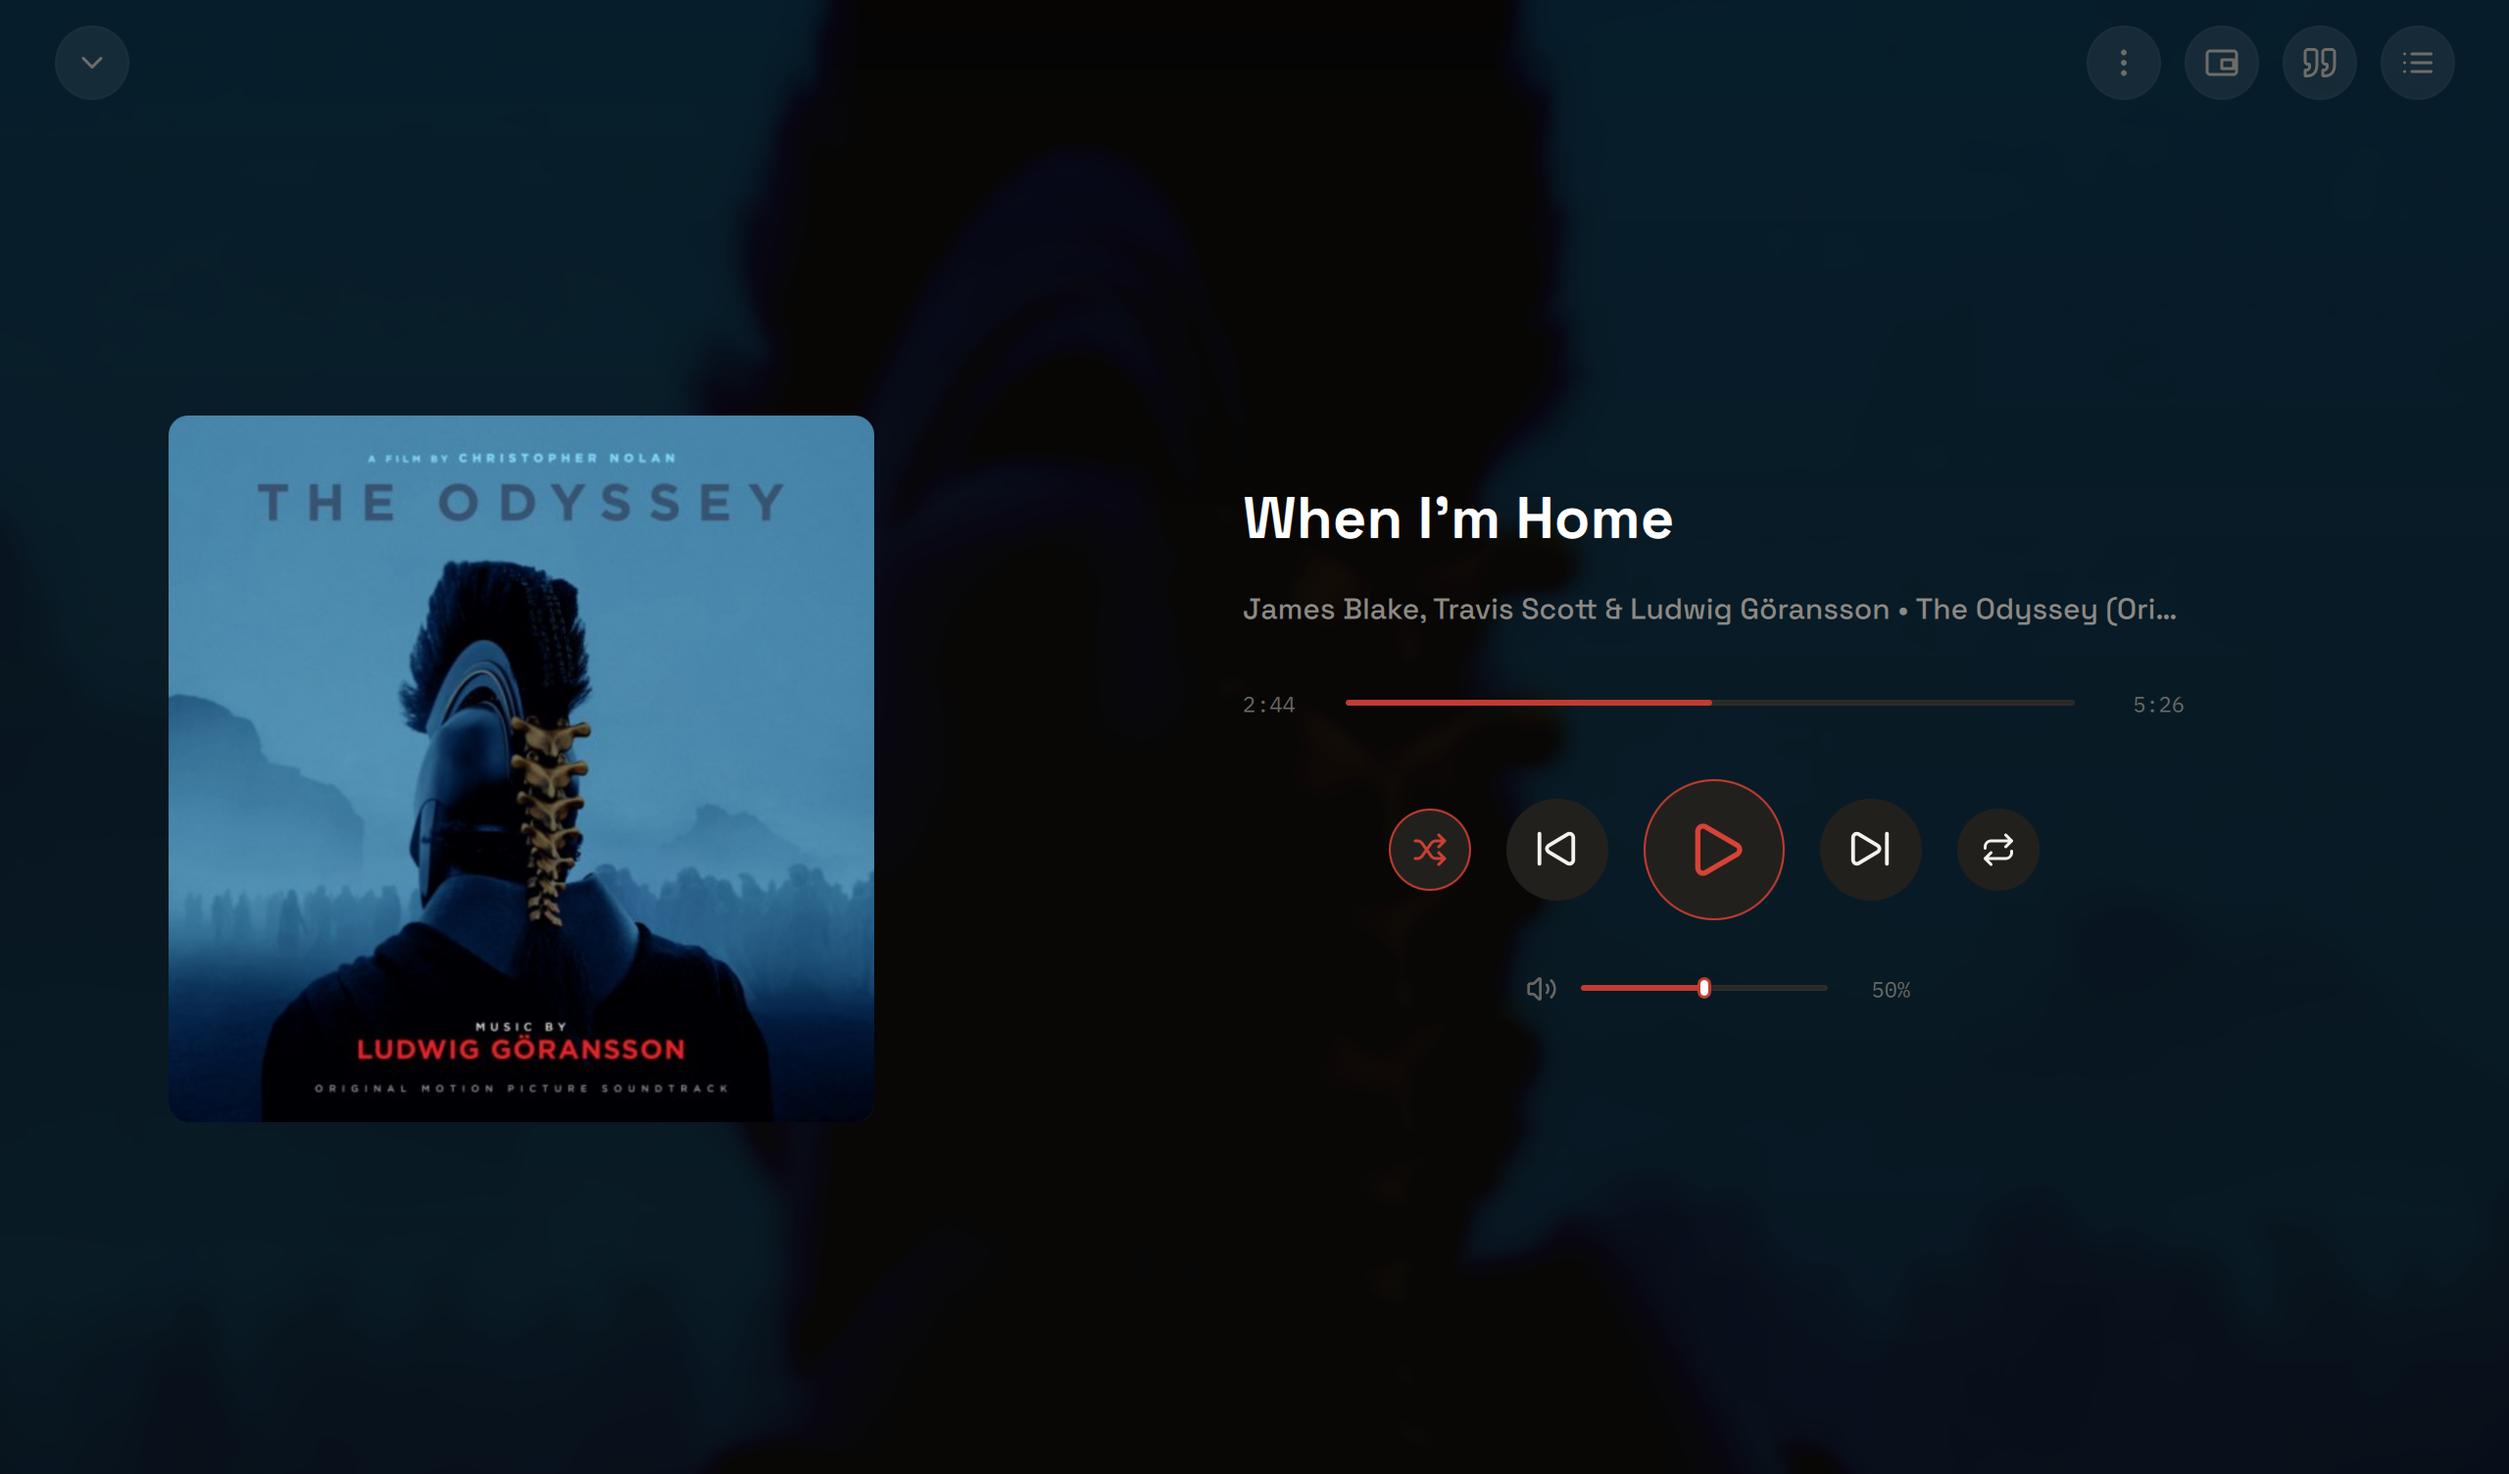
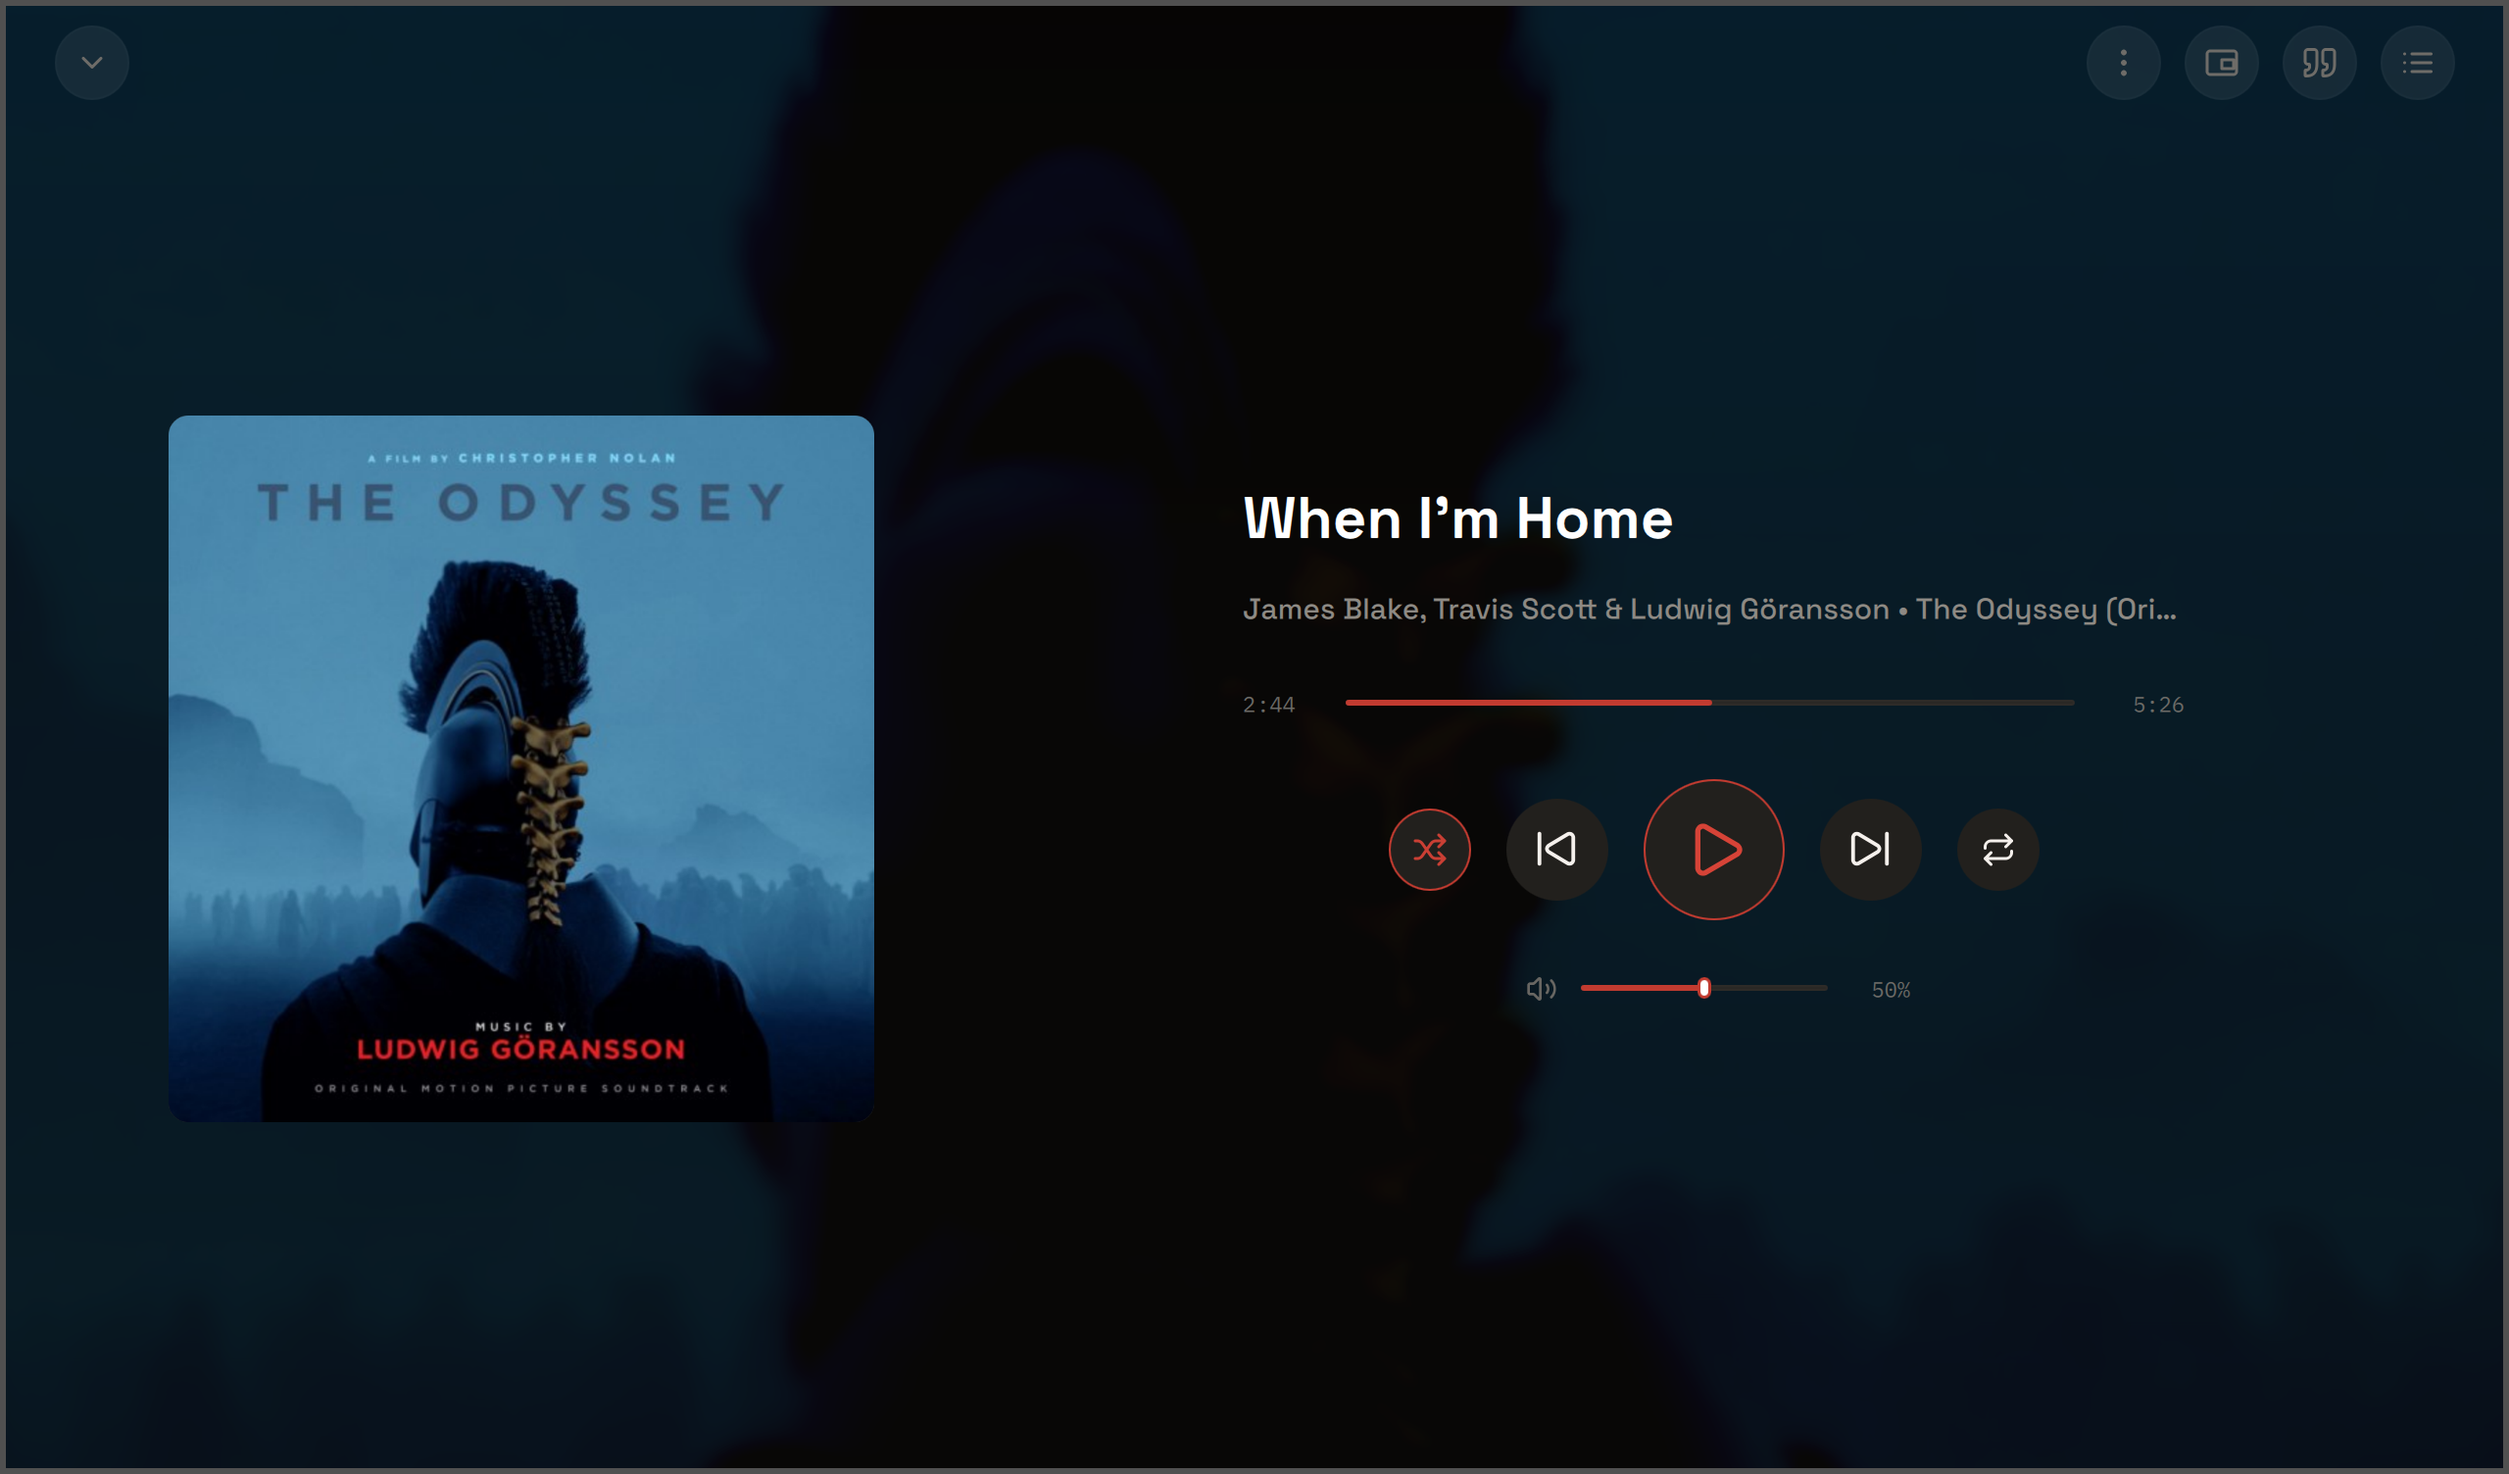
Rework the README (#29)
* Show more screenshots in the README

* Rework the README and add borders to the screenshots

Shorter feature list, an install table instead of gh commands, build
steps that work on both platforms, and live release and download
badges. The screenshots get a grey border so they stand out on dark
backgrounds, since GitHub strips image styling.

Changed region(s): [[0.0, 0.9688, 1.0, 1.0], [0.0, 0.0, 1.0, 0.0312]]

diff --git a/README.md b/README.md
@@ -13,128 +13,80 @@
 </p>
 
 <p align="center">
-  <a href="https://github.com/samyyy2311/CassetteCat-Desktop/releases"><img src="https://img.shields.io/badge/Releases-E55B3C?style=flat-square&logo=git&logoColor=white" alt="Releases" /></a>
-  <a href="LICENSE"><img src="https://img.shields.io/badge/GPL--3.0--or--later-A42E2B?style=flat-square&logo=gnu&logoColor=white" alt="GPL-3.0-or-later" /></a>
-  <img src="https://img.shields.io/badge/Windows-0078D6?style=flat-square&logo=windows&logoColor=white" alt="Windows" />
-  <img src="https://img.shields.io/badge/Linux-FCC624?style=flat-square&logo=linux&logoColor=black" alt="Linux" />
-  <a href="https://www.qt.io"><img src="https://img.shields.io/badge/Qt%206-41CD52?style=flat-square&logo=qt&logoColor=white" alt="Qt 6" /></a>
-  <img src="https://img.shields.io/badge/C%2B%2B20-00599C?style=flat-square&logo=cplusplus&logoColor=white" alt="C++20" />
-  <a href="https://github.com/samyyy2311/CassetteCat-Desktop/releases"><img src="https://img.shields.io/github/downloads/samyyy2311/CassetteCat-Desktop/total?style=flat-square&label=Downloads&logo=github&logoColor=white" alt="GitHub downloads" /></a>
+  <a href="https://github.com/samyyy2311/CassetteCat-Desktop/releases/latest"><img src="https://img.shields.io/github/v/release/samyyy2311/CassetteCat-Desktop?style=flat-square&label=Release&color=E55B3C" alt="Latest release" /></a>
+  <a href="https://github.com/samyyy2311/CassetteCat-Desktop/releases"><img src="https://img.shields.io/github/downloads/samyyy2311/CassetteCat-Desktop/total?style=flat-square&label=Downloads&color=E55B3C" alt="Downloads" /></a>
+  <img src="https://img.shields.io/badge/Windows%20%7C%20Linux-1C1917?style=flat-square" alt="Windows and Linux" />
+  <a href="LICENSE"><img src="https://img.shields.io/badge/License-GPL--3.0--or--later-A42E2B?style=flat-square" alt="GPL-3.0-or-later" /></a>
 </p>
 
 <p align="center">
-  <a href="https://github.com/samyyy2311/CassetteCat-Desktop/releases/latest"><img src="https://img.shields.io/badge/Download%20latest%20release-E55B3C?style=for-the-badge&logo=github&logoColor=white" alt="Download latest release" /></a>
+  <a href="https://github.com/samyyy2311/CassetteCat-Desktop/releases/latest"><img src="https://img.shields.io/badge/Download-E55B3C?style=for-the-badge&logo=github&logoColor=white" alt="Download" /></a>
 </p>
 
 <p align="center">
   <img src="assets/screenshots/home.png" alt="CassetteCat Home screen" />
 </p>
 
----
+## Features
 
-## What it does
+- **Library.** Browse your music folder by songs, artists, albums, genres and folders, with search, favourites and playlists.
+- **Playback.** A queue that survives restarts, ReplayGain, a sleep timer and a floating mini player.
+- **Controls.** Media keys, global shortcuts, the tray, and the Windows and Linux media controls. Every screen works from the keyboard.
+- **Lyrics and artwork.** Synced lyrics from your files or LRCLIB, covers from your files or the Cover Art Archive, and artist pictures and bios.
+- **Listening Record.** Plays, listening time, top songs, artists and albums, full history, and a yearly Recap.
+- **Online extras.** Internet radio, Jellyfin and Subsonic, scrobbling to Libre.fm and ListenBrainz, and a Discord status.
+- **Privacy.** No account needed. Offline Blackout Mode turns every online lookup off.
 
-### Your music, in one place
+## Screenshots
 
-- Choose a music folder and CassetteCat organises it by songs, artists, albums, and folders.
-- Search, sort, filter, build playlists, and keep favourites.
-- Discover recently added music and your most-played tracks from Home.
-- Every screen works from the keyboard, and shortcuts can be changed.
+<table>
+  <tr>
+    <td><img src="assets/screenshots/library-albums.png" alt="Albums" /></td>
+    <td><img src="assets/screenshots/now-playing.png" alt="Player" /></td>
+  </tr>
+  <tr>
+    <td><img src="assets/screenshots/library-songs.png" alt="Songs" /></td>
+    <td><img src="assets/screenshots/radio.png" alt="Radio" /></td>
+  </tr>
+</table>
 
-### Playback
+## Install
 
-- Play, queue, shuffle, repeat, and control your music without losing your place.
-- Use the floating MiniPlayer when you want simple controls on top of other windows.
-- Resume your queue after restarting, set a sleep timer, limit volume, or let playback continue automatically.
-- Even out loudness between songs with ReplayGain.
-- Control playback from media keys, the system tray, global shortcuts, and the Windows or Linux (MPRIS) media controls.
+Download from the [latest release](https://github.com/samyyy2311/CassetteCat-Desktop/releases/latest).
 
-### Listening Record
+| Platform | File | Notes |
+| --- | --- | --- |
+| Windows | `setup.exe` | Installer, with optional file associations |
+| Windows | `.zip` | Portable. Run `CassetteCat\bin\CassetteCat.exe` |
+| Linux | `.AppImage` | Runs on most distributions. Make it executable and run it |
+| Linux | `.flatpak` | Install with `flatpak install --user` and the file name |
+| Linux | `.deb` | Debian, Ubuntu and derivatives |
+| Linux | `.rpm` | Fedora, openSUSE and derivatives |
+| Linux | `.tar.gz` | Portable. Run `CassetteCat/bin/CassetteCat` |
 
-- See your plays, listening time, top songs, artists, and albums, plus your full history.
-- Look back on each year with the Recap: listening time, top songs and artists, and your busiest month.
-- Plays count once most of the song has been heard, so a quick skip doesn't inflate the numbers.
-- Scrobble to Libre.fm or ListenBrainz, and show what you're playing as your Discord status.
-
-### Lyrics, artwork, and radio
-
-- Read local, embedded, or online synced lyrics, with search and timing adjustment when needed.
-- Show cover art from your files or the Cover Art Archive, and artist information when available.
-- Browse internet radio without leaving the app.
-
-### Yours to control
-
-- Connect a Jellyfin or Subsonic server if you use one.
-- Choose an accent colour, layout density, artwork style, and lyric appearance.
-- Back up or restore your settings, and use Offline Blackout Mode to stop every online lookup.
-- No account is required for your local library.
-
----
-
-## Download
-
-<p align="center">
-  Windows and Linux builds are available from the <a href="https://github.com/samyyy2311/CassetteCat-Desktop/releases">Releases page</a>.
-</p>
-
-### Linux
-
-Choose the package that matches your distribution:
-
-1. **AppImage** — broad portable option; make it executable and run it.
-2. **Flatpak** — sandboxed option for distributions with Flatpak support.
-3. **DEB** — Debian, Ubuntu, Mint, Pop!_OS, and compatible systems.
-4. **RPM** — Fedora, RHEL-compatible, and compatible openSUSE systems.
-5. **tar.gz** — manual portable install.
-
-The release page contains all five formats for x86_64 Linux. Package support
-depends on the runtime libraries provided by the target distribution.
-
-For the portable archive:
-
-```bash
-gh release download --repo samyyy2311/CassetteCat-Desktop --pattern '*linux-x64.tar.gz'
-tar -xzf CassetteCat-*-linux-x64.tar.gz
-./CassetteCat/bin/CassetteCat
-```
-
-### Windows
-
-The installer adds a Start menu entry and can optionally associate common audio files with CassetteCat. The ZIP remains portable:
-
-```powershell
-gh release download --repo samyyy2311/CassetteCat-Desktop --pattern '*windows-x64.zip'
-$archive = Get-ChildItem 'CassetteCat-*-windows-x64.zip' | Select-Object -First 1
-Expand-Archive $archive.FullName .\CassetteCat
-.\CassetteCat\CassetteCat\bin\CassetteCat.exe
-```
+Linux builds are x86_64. Each release includes `SHA256SUMS.txt` to verify downloads.
 
 ## Build from source
 
-You need Qt 6.10 or newer (with Qt Quick, Quick Controls 2, Multimedia, and Network), CMake 3.24 or newer, and Ninja. Linux builds also need the libsecret development headers, such as `libsecret-1-dev` on Debian and Ubuntu.
+Requires Qt 6.10 or newer (Quick, Quick Controls 2, Multimedia, Network), CMake 3.24 or newer, and Ninja. On Linux, also install the libsecret headers (`libsecret-1-dev` on Debian and Ubuntu).
 
-```powershell
+```bash
 cmake --preset dev
 cmake --build --preset dev
-.\build\dev\CassetteCat.exe
 ```
 
-Run the self-check and the test suite with:
+The app is built to `build/dev/`. Run the checks with:
 
-```powershell
-.\build\dev\CassetteCat.exe --self-check
+```bash
+build/dev/CassetteCat --self-check
 ctest --test-dir build/dev --output-on-failure
 ```
-
----
 
 ## Contributing
 
 Contributions are welcome. Read [CONTRIBUTING.md](CONTRIBUTING.md) before
 opening a pull request. For security issues, read
 [SECURITY.md](.github/SECURITY.md).
-
----
 
 ## Support
 
@@ -163,8 +115,6 @@ opening a pull request. For security issues, read
 - <a href="https://github.com/IBM/plex"><img src="https://img.shields.io/badge/IBM%20Plex-0F62FE?style=flat-square&logo=ibm&logoColor=white" alt="IBM Plex" /></a> and <a href="https://github.com/floriankarsten/space-grotesk"><img src="https://img.shields.io/badge/Space%20Grotesk-242424?style=flat-square" alt="Space Grotesk" /></a> Typefaces.
 
 See [THIRD_PARTY_NOTICES.md](THIRD_PARTY_NOTICES.md) for all included notices.
-
----
 
 ## License
 
